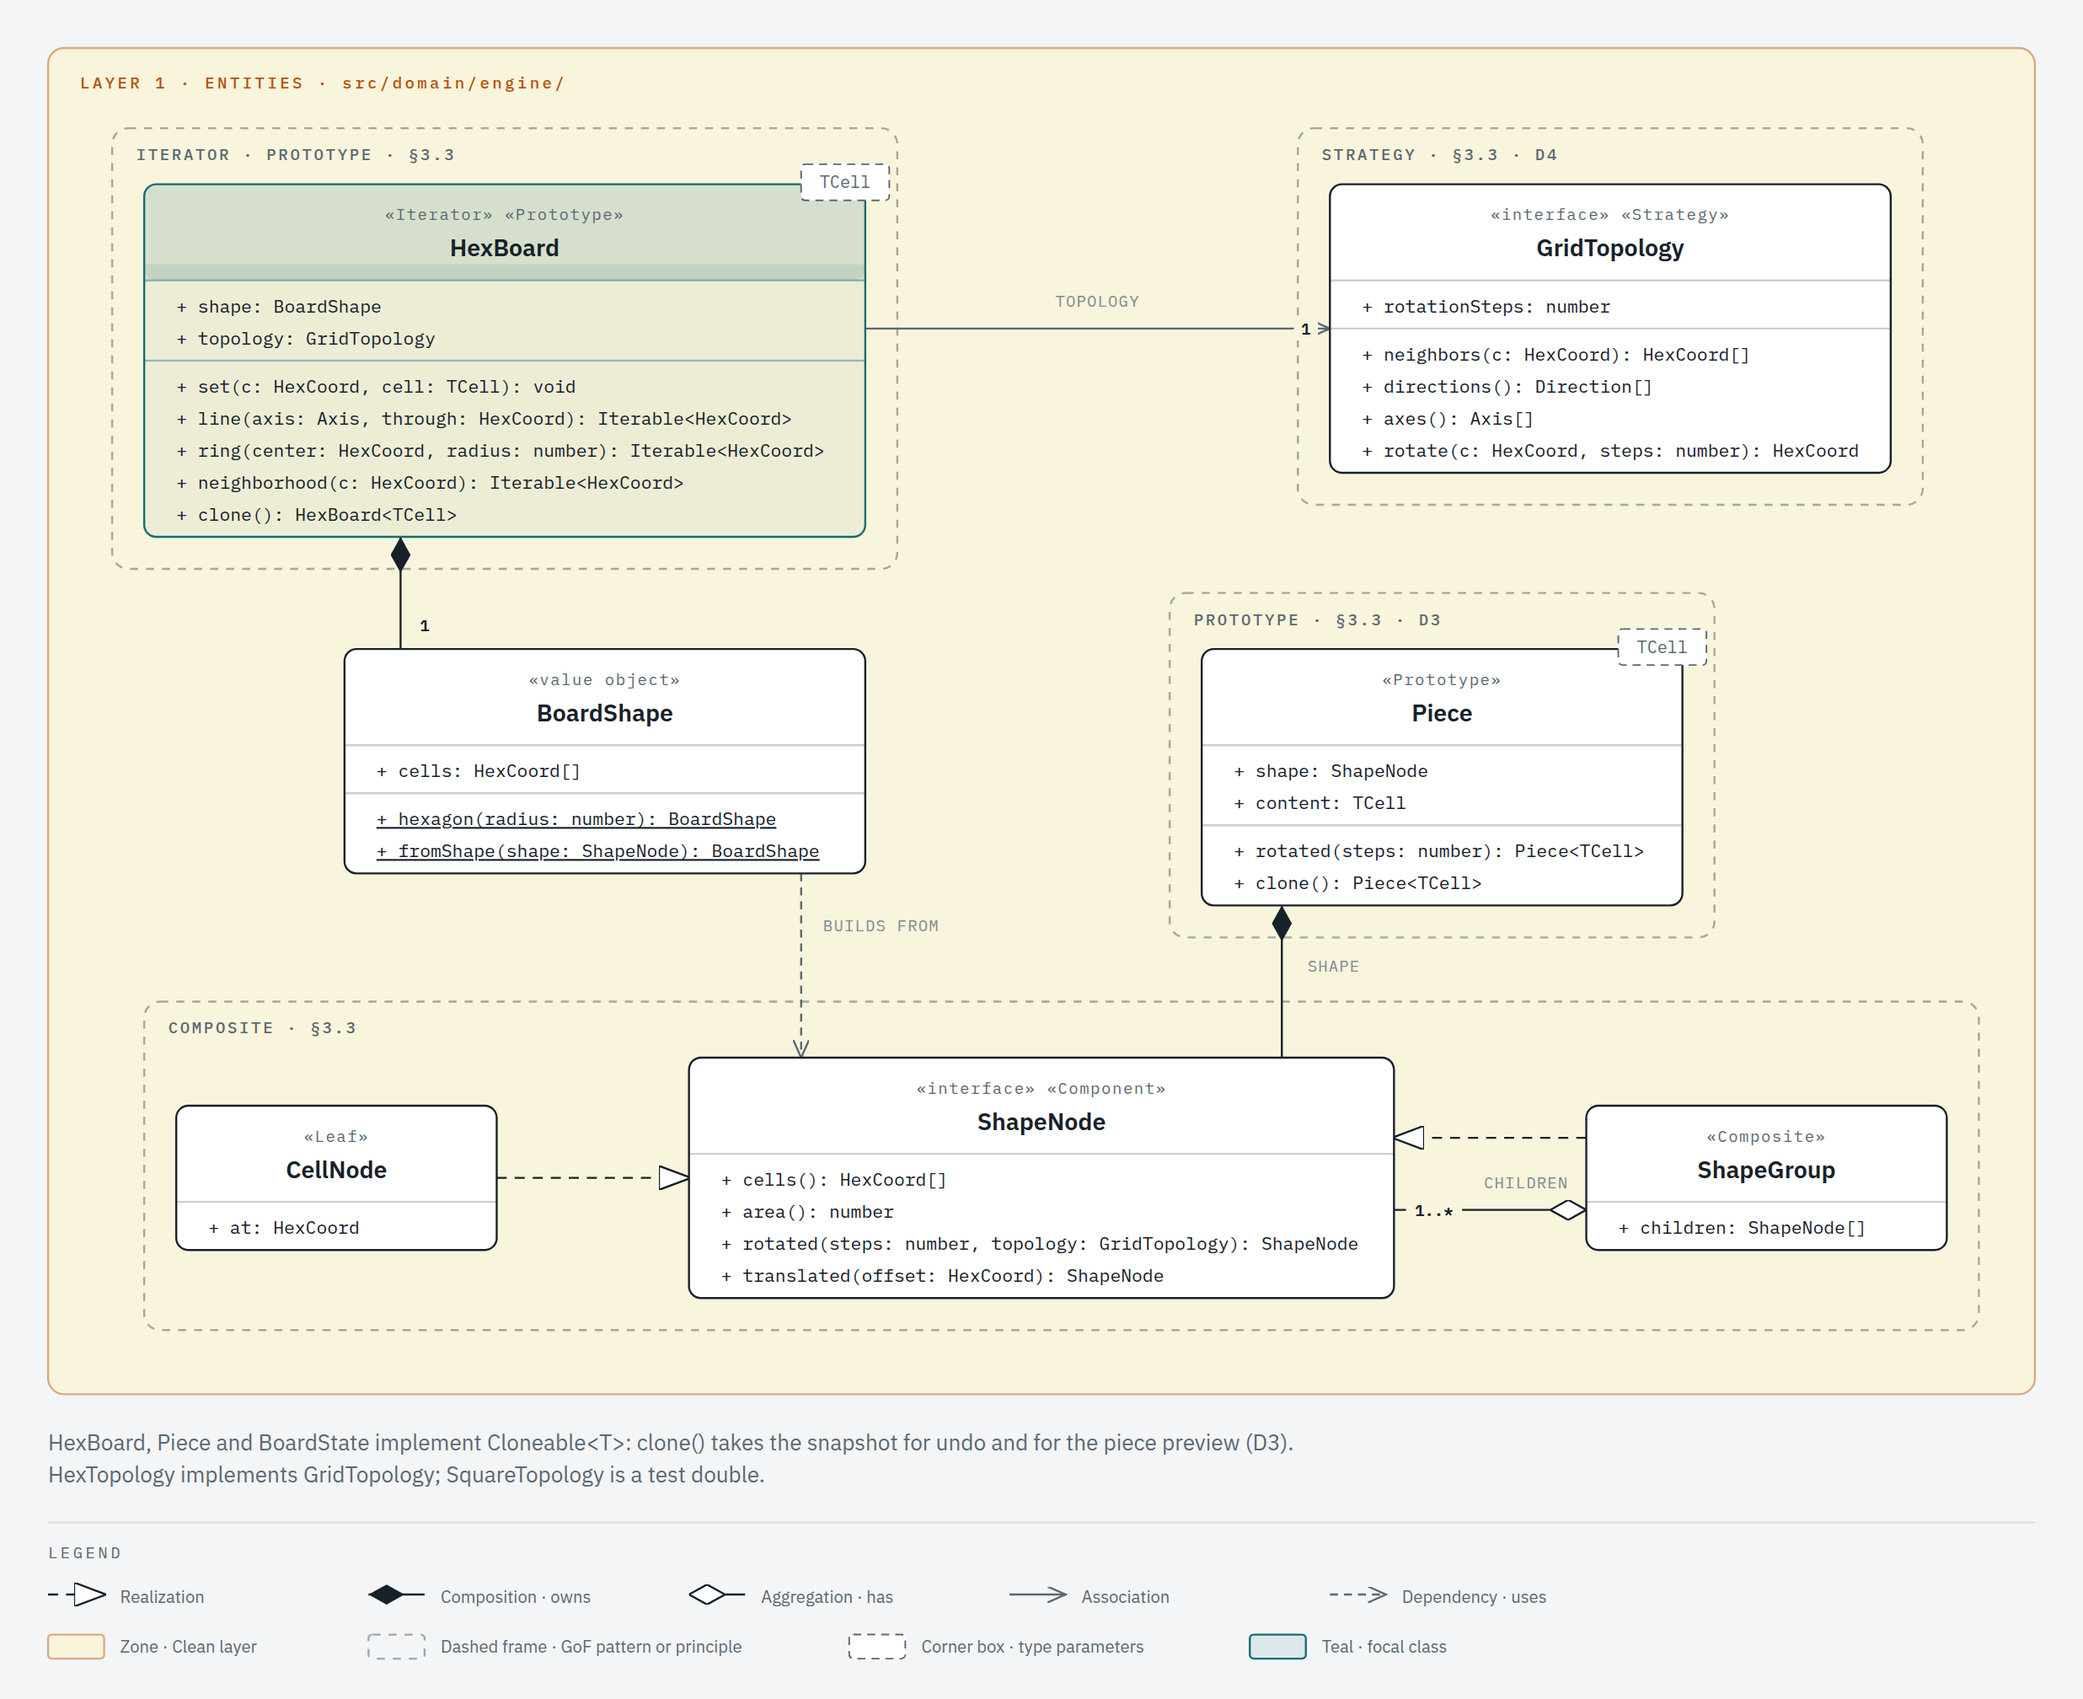
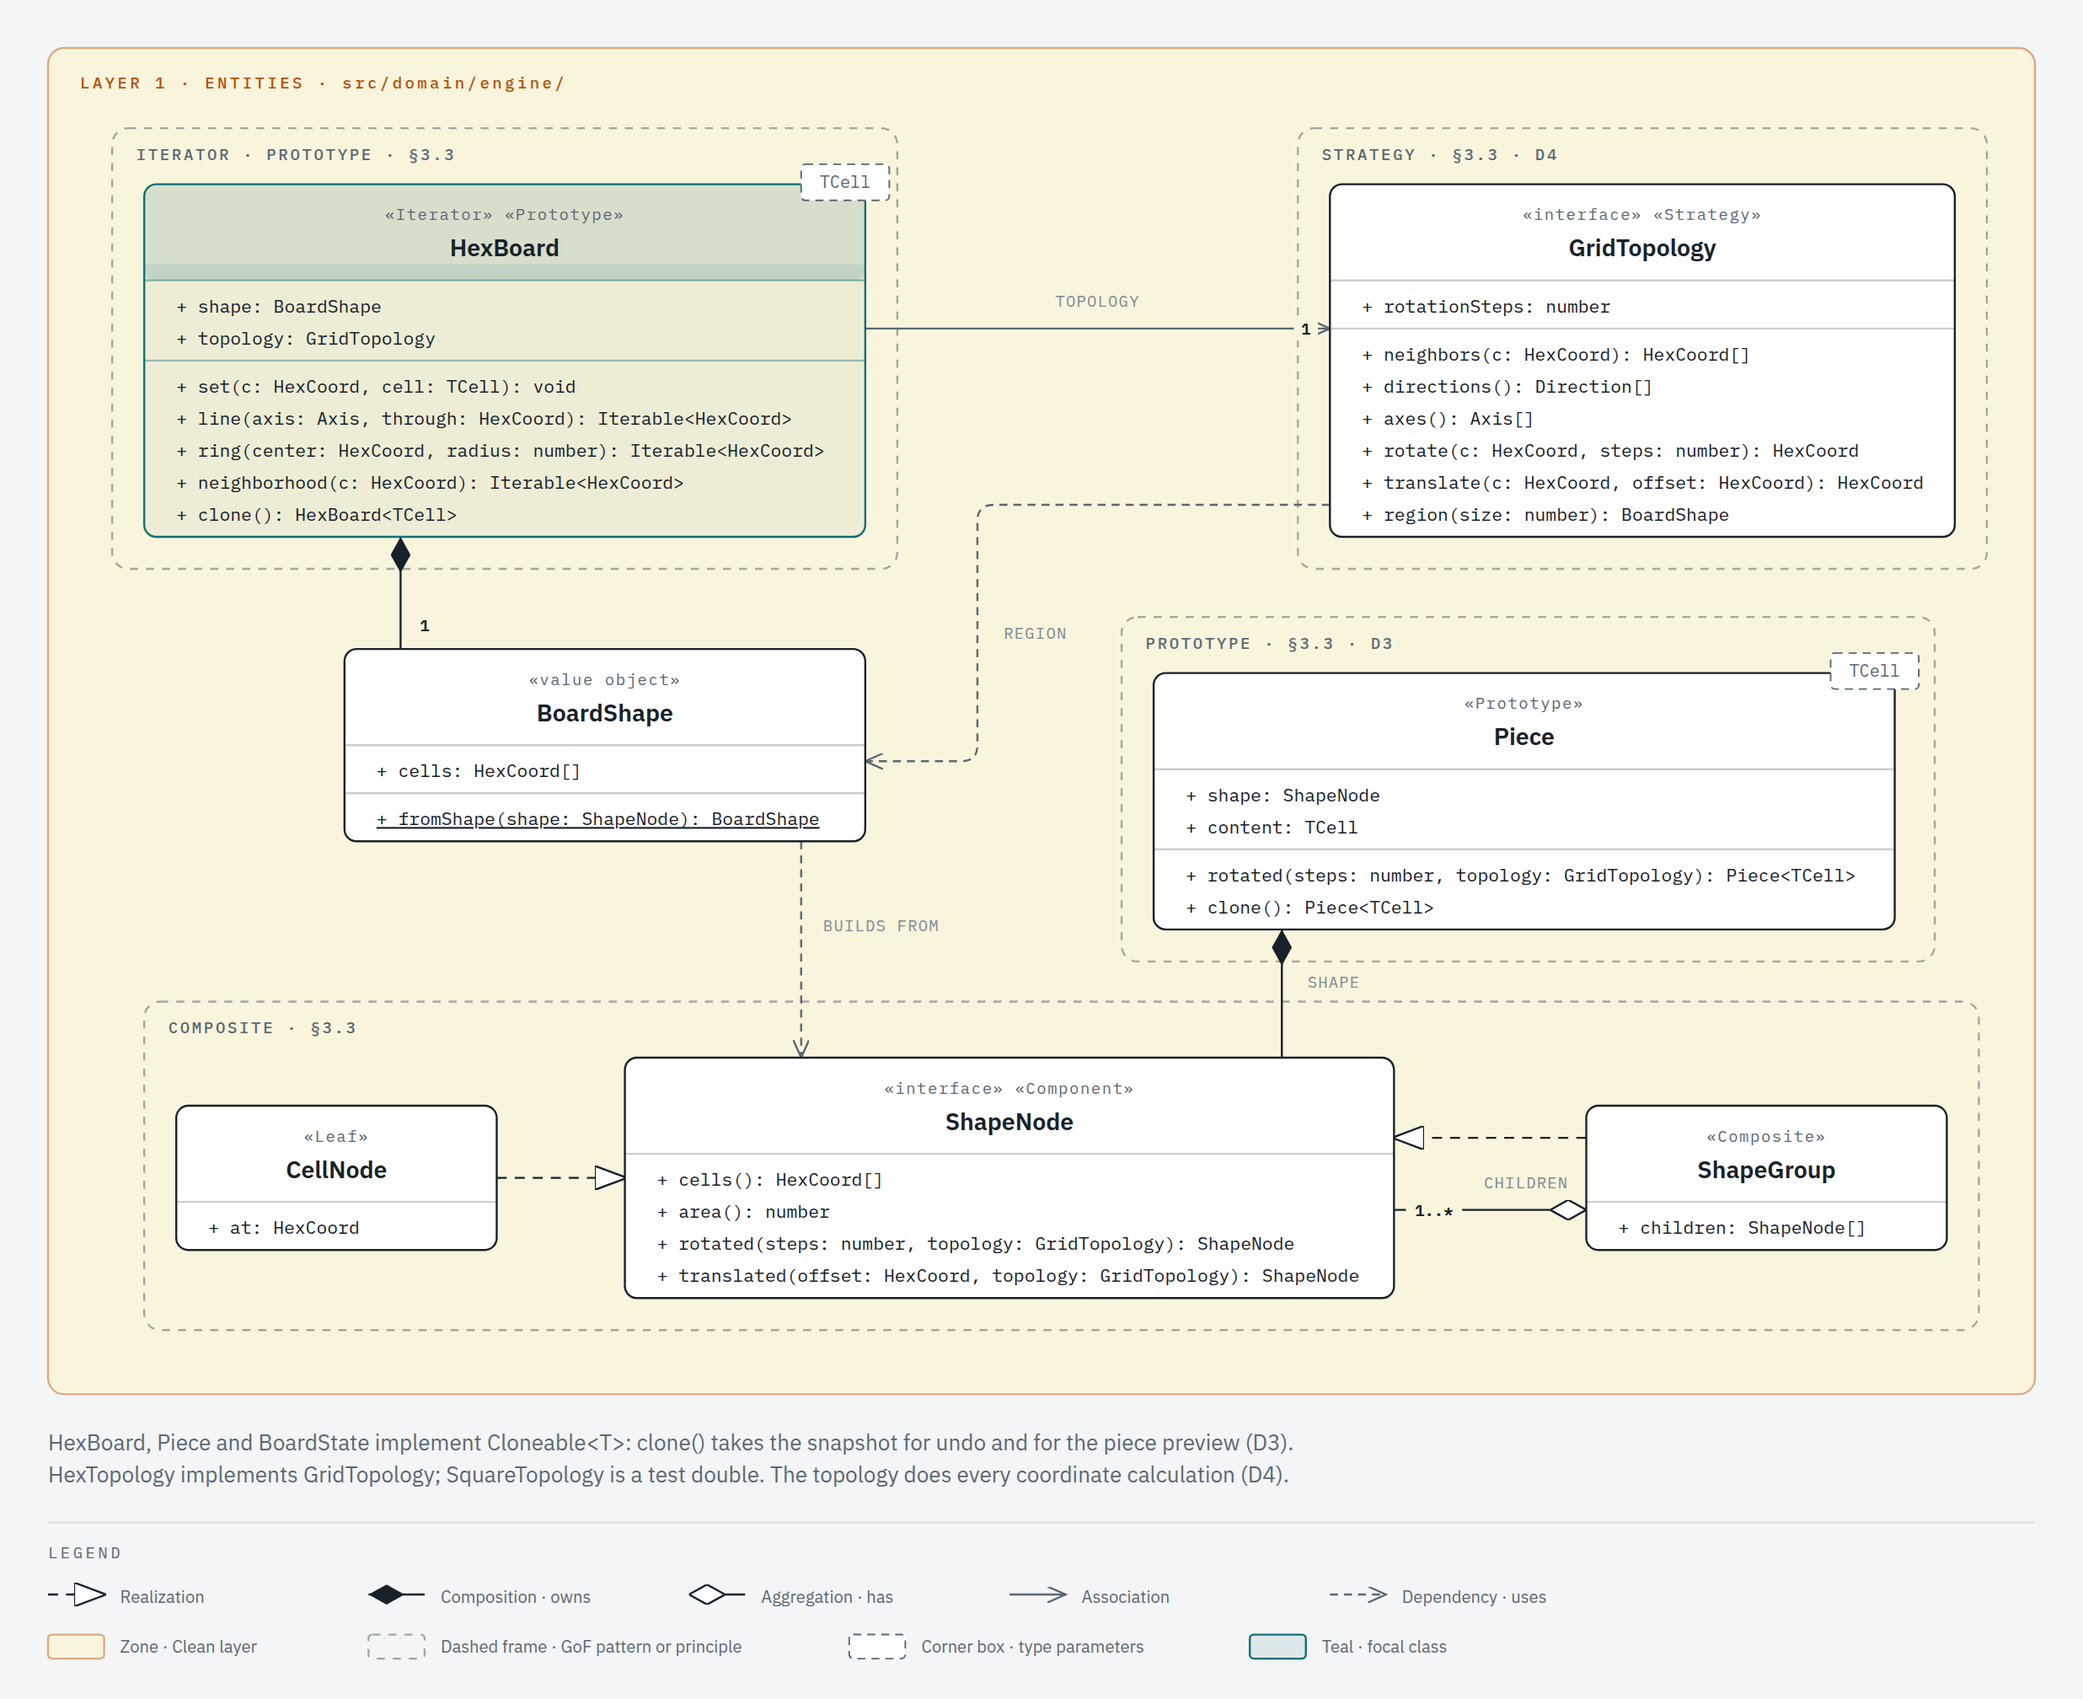
docs(architecture): move coordinate arithmetic into the grid topology
ShapeNode.translated() and Piece.rotated() now take the GridTopology, and
GridTopology gains translate() and region(). BoardShape.hexagon() goes away.
Adding coordinates one component at a time only works for hexagons and
squares, so triangular cells (register §8) would have broken the engine.

classes.md adds decision 15 (Builder in the levels, not in the board) and
decision 16 (the topology does every coordinate calculation).

diff --git a/docs/architecture/classes/views/engine-2-board.html b/docs/architecture/classes/views/engine-2-board.html
@@ -180,8 +180,8 @@
         <rect
           x="648"
           y="64"
-          width="312"
-          height="188"
+          width="344"
+          height="220"
           rx="8"
           fill="none"
           stroke="rgba(91,104,115,0.55)"
@@ -201,9 +201,9 @@
         </text>
 
         <rect
-          x="584"
-          y="296"
-          width="272"
+          x="560"
+          y="308"
+          width="406"
           height="172"
           rx="8"
           fill="none"
@@ -212,8 +212,8 @@
           stroke-dasharray="4,4"
         />
         <text
-          x="596"
-          y="312"
+          x="572"
+          y="324"
           fill="#5b6873"
           font-size="8"
           font-weight="500"
@@ -270,9 +270,18 @@
         <!-- BoardShape builds from ShapeNode: dependency -->
         <line
           x1="400"
-          y1="436"
+          y1="420"
           x2="400"
           y2="528"
+          stroke="#5b6873"
+          stroke-width="1"
+          stroke-dasharray="4,3"
+          marker-end="url(#board-open)"
+        />
+        <!-- GridTopology builds the BoardShape region: dependency -->
+        <path
+          d="M664,252 H496 Q488,252 488,260 V372 Q488,380 480,380 H432"
+          fill="none"
           stroke="#5b6873"
           stroke-width="1"
           stroke-dasharray="4,3"
@@ -281,7 +290,7 @@
         <!-- Piece owns its ShapeNode: composition -->
         <line
           x1="640"
-          y1="452"
+          y1="464"
           x2="640"
           y2="528"
           stroke="#17212a"
@@ -292,7 +301,7 @@
         <line
           x1="248"
           y1="588"
-          x2="344"
+          x2="312"
           y2="588"
           stroke="#17212a"
           stroke-width="1"
@@ -334,6 +343,18 @@
         >
           TOPOLOGY
         </text>
+        <rect x="496" y="310" width="42" height="12" rx="2" fill="#f9f4dc" />
+        <text
+          x="517"
+          y="319"
+          fill="#7d8a94"
+          font-size="8"
+          font-family="'IBM Plex Mono', monospace"
+          text-anchor="middle"
+          letter-spacing="0.06em"
+        >
+          REGION
+        </text>
         <rect x="408" y="456" width="64" height="12" rx="2" fill="#f9f4dc" />
         <text
           x="440"
@@ -346,10 +367,10 @@
         >
           BUILDS FROM
         </text>
-        <rect x="648" y="476" width="36" height="12" rx="2" fill="#f9f4dc" />
+        <rect x="648" y="484" width="36" height="12" rx="2" fill="#f9f4dc" />
         <text
           x="666"
-          y="485"
+          y="493"
           fill="#7d8a94"
           font-size="8"
           font-family="'IBM Plex Mono', monospace"
@@ -472,17 +493,17 @@
         <rect
           x="664"
           y="92"
-          width="280"
-          height="144"
+          width="312"
+          height="176"
           rx="6"
           fill="#ffffff"
           stroke="#17212a"
           stroke-width="1"
         />
-        <line x1="664" y1="140" x2="944" y2="140" stroke="rgba(23,33,42,0.22)" stroke-width="1" />
-        <line x1="664" y1="164" x2="944" y2="164" stroke="rgba(23,33,42,0.22)" stroke-width="1" />
+        <line x1="664" y1="140" x2="976" y2="140" stroke="rgba(23,33,42,0.22)" stroke-width="1" />
+        <line x1="664" y1="164" x2="976" y2="164" stroke="rgba(23,33,42,0.22)" stroke-width="1" />
         <text
-          x="804"
+          x="820"
           y="110"
           fill="#5b6873"
           font-size="8"
@@ -493,7 +514,7 @@
           «interface» «Strategy»
         </text>
         <text
-          x="804"
+          x="820"
           y="128"
           fill="#17212a"
           font-size="12"
@@ -518,13 +539,19 @@
         <text x="680" y="228" fill="#17212a" font-size="9" font-family="'IBM Plex Mono', monospace">
           + rotate(c: HexCoord, steps: number): HexCoord
         </text>
+        <text x="680" y="244" fill="#17212a" font-size="9" font-family="'IBM Plex Mono', monospace">
+          + translate(c: HexCoord, offset: HexCoord): HexCoord
+        </text>
+        <text x="680" y="260" fill="#17212a" font-size="9" font-family="'IBM Plex Mono', monospace">
+          + region(size: number): BoardShape
+        </text>
 
         <!-- Class: BoardShape (value object) -->
         <rect
           x="172"
           y="324"
           width="260"
-          height="112"
+          height="96"
           rx="6"
           fill="#ffffff"
           stroke="#17212a"
@@ -565,35 +592,25 @@
           font-family="'IBM Plex Mono', monospace"
           text-decoration="underline"
         >
-          + hexagon(radius: number): BoardShape
-        </text>
-        <text
-          x="188"
-          y="428"
-          fill="#17212a"
-          font-size="9"
-          font-family="'IBM Plex Mono', monospace"
-          text-decoration="underline"
-        >
           + fromShape(shape: ShapeNode): BoardShape
         </text>
 
         <!-- Class: Piece (Prototype) -->
         <rect
-          x="600"
-          y="324"
-          width="240"
+          x="576"
+          y="336"
+          width="370"
           height="128"
           rx="6"
           fill="#ffffff"
           stroke="#17212a"
           stroke-width="1"
         />
-        <line x1="600" y1="372" x2="840" y2="372" stroke="rgba(23,33,42,0.22)" stroke-width="1" />
-        <line x1="600" y1="412" x2="840" y2="412" stroke="rgba(23,33,42,0.22)" stroke-width="1" />
+        <line x1="576" y1="384" x2="946" y2="384" stroke="rgba(23,33,42,0.22)" stroke-width="1" />
+        <line x1="576" y1="424" x2="946" y2="424" stroke="rgba(23,33,42,0.22)" stroke-width="1" />
         <text
-          x="720"
-          y="342"
+          x="761"
+          y="354"
           fill="#5b6873"
           font-size="8"
           font-family="'IBM Plex Mono', monospace"
@@ -603,8 +620,8 @@
           «Prototype»
         </text>
         <text
-          x="720"
-          y="360"
+          x="761"
+          y="372"
           fill="#17212a"
           font-size="12"
           font-weight="600"
@@ -613,33 +630,33 @@
         >
           Piece
         </text>
-        <text x="616" y="388" fill="#17212a" font-size="9" font-family="'IBM Plex Mono', monospace">
+        <text x="592" y="400" fill="#17212a" font-size="9" font-family="'IBM Plex Mono', monospace">
           + shape: ShapeNode
         </text>
-        <text x="616" y="404" fill="#17212a" font-size="9" font-family="'IBM Plex Mono', monospace">
+        <text x="592" y="416" fill="#17212a" font-size="9" font-family="'IBM Plex Mono', monospace">
           + content: TCell
         </text>
-        <text x="616" y="428" fill="#17212a" font-size="9" font-family="'IBM Plex Mono', monospace">
-          + rotated(steps: number): Piece&lt;TCell&gt;
+        <text x="592" y="440" fill="#17212a" font-size="9" font-family="'IBM Plex Mono', monospace">
+          + rotated(steps: number, topology: GridTopology): Piece&lt;TCell&gt;
         </text>
-        <text x="616" y="444" fill="#17212a" font-size="9" font-family="'IBM Plex Mono', monospace">
+        <text x="592" y="456" fill="#17212a" font-size="9" font-family="'IBM Plex Mono', monospace">
           + clone(): Piece&lt;TCell&gt;
         </text>
 
         <!-- Class: ShapeNode (interface, Component) -->
         <rect
-          x="344"
+          x="312"
           y="528"
-          width="352"
+          width="384"
           height="120"
           rx="6"
           fill="#ffffff"
           stroke="#17212a"
           stroke-width="1"
         />
-        <line x1="344" y1="576" x2="696" y2="576" stroke="rgba(23,33,42,0.22)" stroke-width="1" />
+        <line x1="312" y1="576" x2="696" y2="576" stroke="rgba(23,33,42,0.22)" stroke-width="1" />
         <text
-          x="520"
+          x="504"
           y="546"
           fill="#5b6873"
           font-size="8"
@@ -650,7 +667,7 @@
           «interface» «Component»
         </text>
         <text
-          x="520"
+          x="504"
           y="564"
           fill="#17212a"
           font-size="12"
@@ -660,17 +677,17 @@
         >
           ShapeNode
         </text>
-        <text x="360" y="592" fill="#17212a" font-size="9" font-family="'IBM Plex Mono', monospace">
+        <text x="328" y="592" fill="#17212a" font-size="9" font-family="'IBM Plex Mono', monospace">
           + cells(): HexCoord[]
         </text>
-        <text x="360" y="608" fill="#17212a" font-size="9" font-family="'IBM Plex Mono', monospace">
+        <text x="328" y="608" fill="#17212a" font-size="9" font-family="'IBM Plex Mono', monospace">
           + area(): number
         </text>
-        <text x="360" y="624" fill="#17212a" font-size="9" font-family="'IBM Plex Mono', monospace">
+        <text x="328" y="624" fill="#17212a" font-size="9" font-family="'IBM Plex Mono', monospace">
           + rotated(steps: number, topology: GridTopology): ShapeNode
         </text>
-        <text x="360" y="640" fill="#17212a" font-size="9" font-family="'IBM Plex Mono', monospace">
-          + translated(offset: HexCoord): ShapeNode
+        <text x="328" y="640" fill="#17212a" font-size="9" font-family="'IBM Plex Mono', monospace">
+          + translated(offset: HexCoord, topology: GridTopology): ShapeNode
         </text>
 
         <!-- Class: CellNode (Leaf) -->
@@ -772,8 +789,8 @@
           TCell
         </text>
         <rect
-          x="808"
-          y="314"
+          x="914"
+          y="326"
           width="44"
           height="18"
           rx="2"
@@ -783,8 +800,8 @@
           stroke-dasharray="4,3"
         />
         <text
-          x="830"
-          y="326"
+          x="936"
+          y="338"
           fill="#5b6873"
           font-size="8.5"
           font-family="'IBM Plex Mono', monospace"
@@ -811,7 +828,8 @@
           font-size="11"
           font-family="'IBM Plex Sans', sans-serif"
         >
-          HexTopology implements GridTopology; SquareTopology is a test double.
+          HexTopology implements GridTopology; SquareTopology is a test double. The topology does
+          every coordinate calculation (D4).
         </text>
 
         <!-- Legend -->

diff --git a/docs/architecture/classes.md b/docs/architecture/classes.md
@@ -34,7 +34,7 @@ This page answers statement §4.1 for the client. It shows the generic types in 
 
 ### View 2: board and pieces
 
-![Board and pieces: HexBoard as Iterator and Prototype, GridTopology as Strategy, ShapeNode as Composite](classes/views/engine-2-board.png)
+![Board and pieces: HexBoard as Iterator and Prototype, GridTopology as Strategy with every coordinate calculation, ShapeNode as Composite](classes/views/engine-2-board.png)
 
 ### View 3: undo and redo
 
@@ -164,6 +164,8 @@ The fourteen patterns of §3.3 all appear. Eleven live in layer 1; Adapter, Faca
 12. **`SettingsStore` (proposal).** `UpdateSettings` keeps the mute option and the language through this port. [layers.md](layers.md) left that storage open. `LocalSettingsStore` implements it over `KeyValueStore`.
 13. **Singleton in the composition root.** `CompositionRoot.instance()` is the classic form of §3.3. The rest of the app receives its dependencies by injection and never calls `instance()`. Q9 decides its file.
 14. **State mappers and cell renderers.** `StateMapper<TState>` in layer 3 turns the state of a variant into `CellView` values, and one `CellRenderer` per variant draws them (D3). Q8 decides where the renderers live and whether the variant factory provides them.
+15. **Builder in the levels, not in the board.** The statement puts Builder on the levels of Fit and Sort (§3.3). `HexBoard` has two required parts and no optional ones, so its constructor and `GridTopology.region()` are enough. The level builders already carry what changes from one level to the next: `FitLevel.figure` gives the cells of the board, and `SortLevel.radius` gives its size. A `BoardBuilder` pays off only if a level gains optional board parts, such as blocked or prefilled cells.
+16. **The topology does every coordinate calculation.** `GridTopology` owns `rotate()`, `translate()` and `region()`, and `HexCoord` only holds `q` and `r`. Adding two coordinates one component at a time works for hexagons and squares. It fails for triangles, because the parity of column plus row decides whether a triangle points up or down. With this rule, triangular cells (§8, the professor on 2026-10-26) mean one more class, `TriangleTopology`, plus new level data. `HexBoard` and `HexCoord` keep the names of the statement (§3.1). The square test double of D4 cannot catch this kind of coupling, because a square adds coordinates the same way a hexagon does. To check with the team: an engine test that translates a piece by an odd offset with a triangle double.
 
 ## Render the images
 
